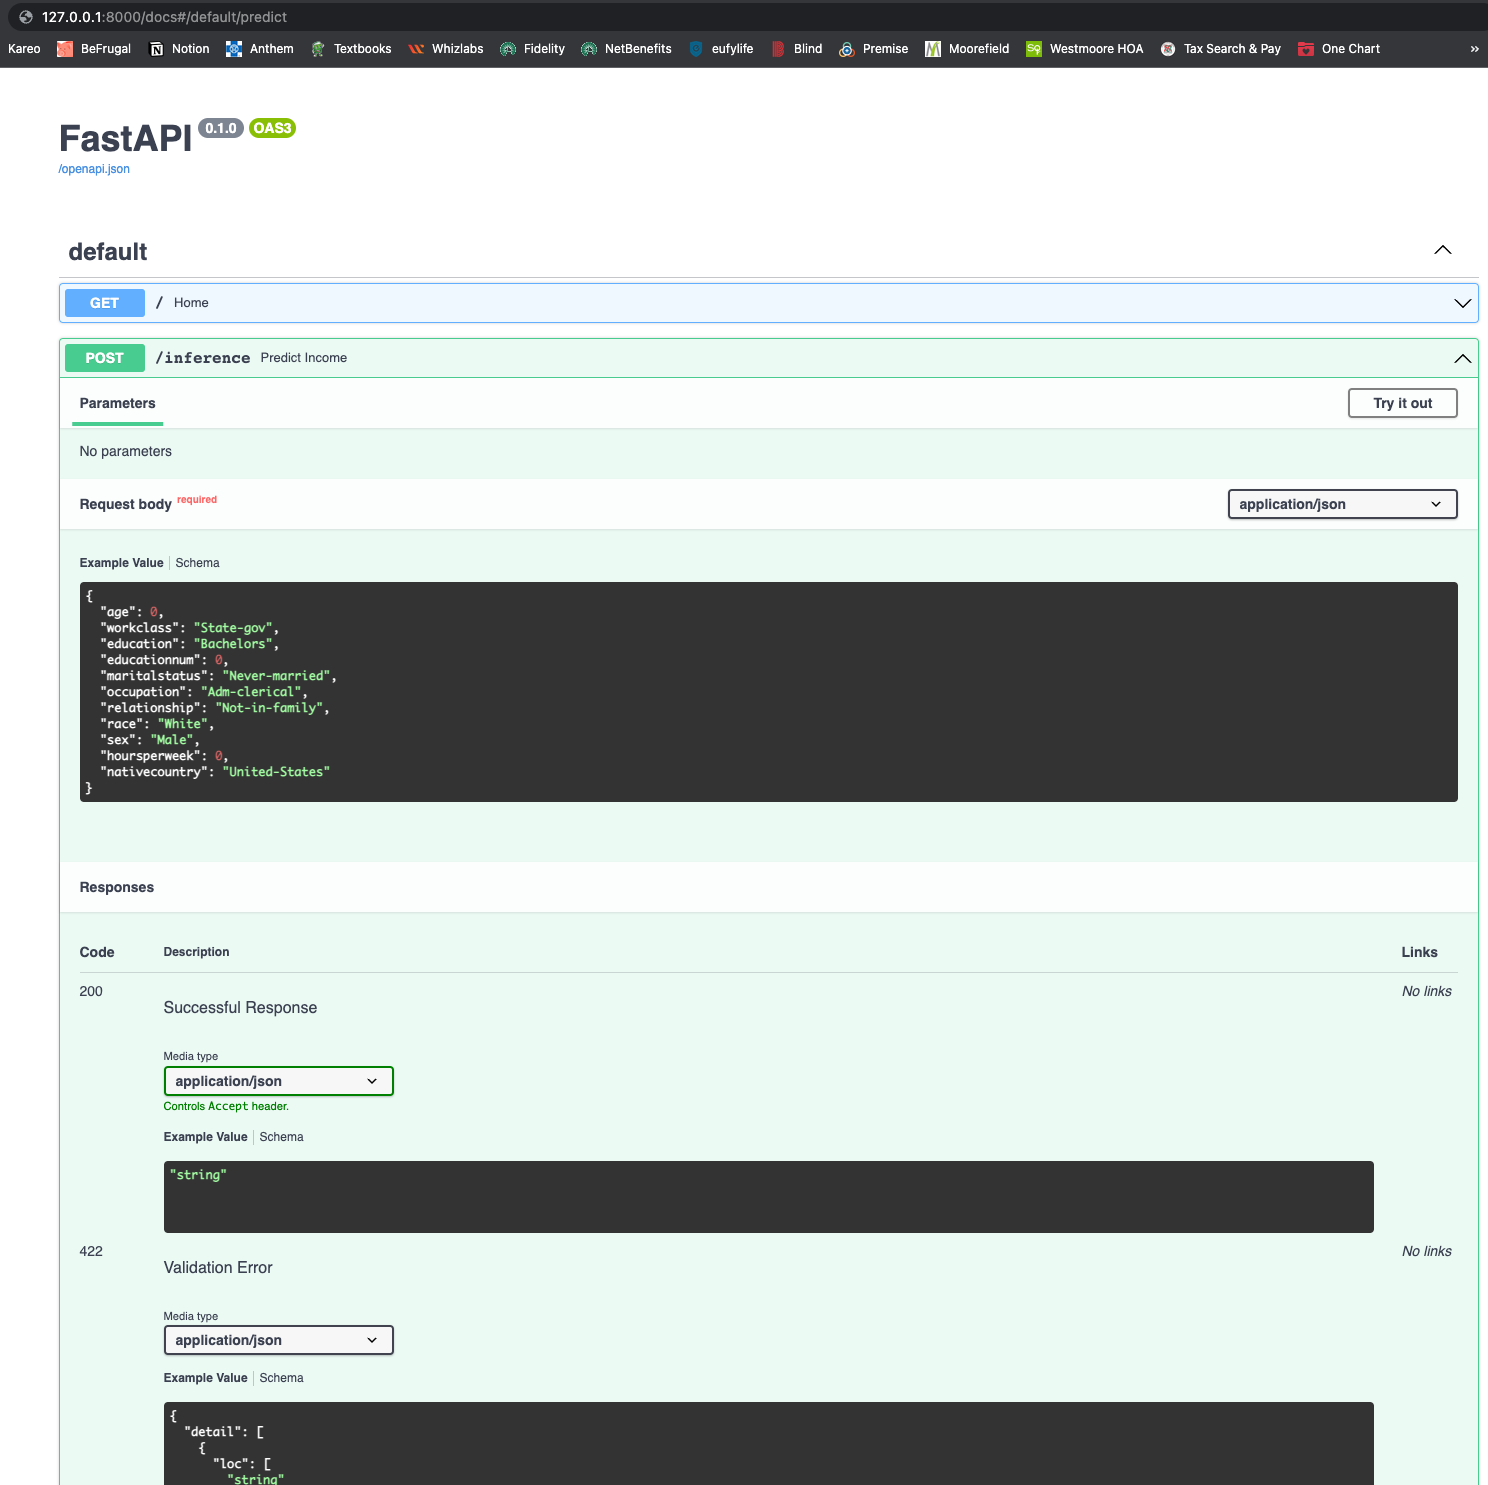
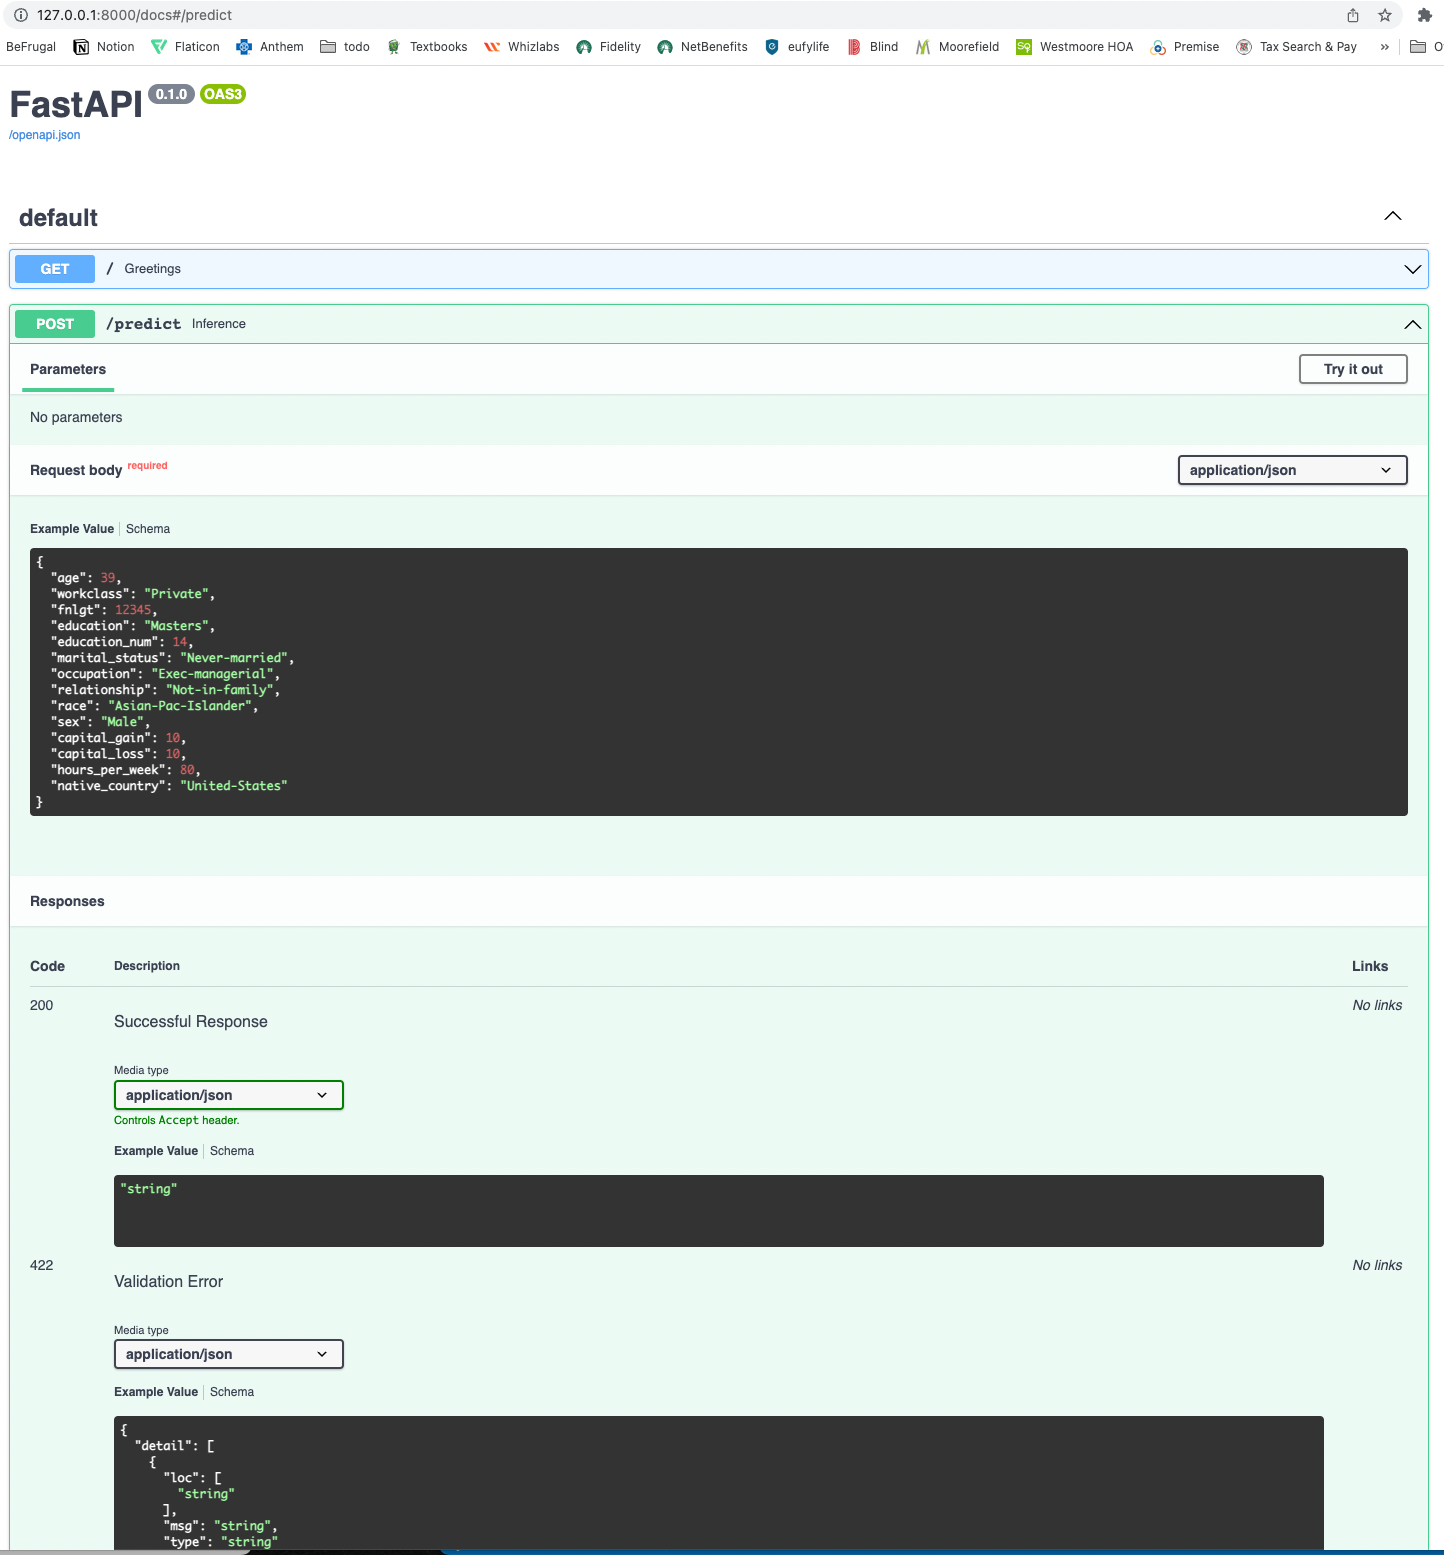
Update

Changed region(s): [[0.0, 0.0, 1.0, 1.0], [0.9349, 0.6195, 0.9972, 0.6815]]

diff --git a/test_api.py b/test_api.py
@@ -5,7 +5,7 @@ import pytest
 from http import HTTPStatus
 from fastapi.testclient import TestClient
 
-from app.api import app
+from main import app
 
 
 client = TestClient(app)
@@ -16,44 +16,36 @@ def test_greetings():
     Tests GET greetings function
     """
     response = client.get('/')
+    # print(response)
+    # print(response.status_code)
+    # print(response.json())
     assert response.status_code == HTTPStatus.OK
     assert response.request.method == "GET"
-    assert response.json() == 'Udacity MLOps Greetings!'
+    assert response.json() == {'message': 'Udacity MLOps Greetings!'}
 
-
-@pytest.mark.parametrize('test_input, expected', [
-    ('age', "Age of the person - numerical - int"),
-    ('fnlgt', 'MORE INFO NEEDED - numerical - int'),
-    ('race', 'Race of the person - nominal categorical - str')
-])
-def test_feature_info_status(test_input: str, expected: str):
-    """
-    Tests GET request and status code for feature_info function
-
-    Args:
-        test_input (str): example input
-        expected (str): example output
-    """
-    response = client.get(f'/feature_info/{test_input}')
-    assert response.status_code == HTTPStatus.OK
-    assert response.request.method == "GET"
-
-
-@pytest.mark.parametrize('test_input, expected', [
-    ('age', "Age of the person - numerical - int"),
-    ('fnlgt', 'MORE INFO NEEDED - numerical - int'),
-    ('race', 'Race of the person - nominal categorical - str')
-])
-def test_feature_info_response(test_input: str, expected: str):
-    """
-    Tests GET request response for feature_info function
-
-    Args:
-        test_input (str): example input
-        expected (str): example output
-    """
-    response = client.get(f'/feature_info/{test_input}')
-    assert response.json() == expected
+def test_predict_gr50k():
+    r = client.post("/predict", json={
+        "age": 39,
+        "workclass": "Private",
+        "fnlgt": 12345,
+        "education": "Masters",
+        "education_num": 14,
+        "marital_status": "Never-married",
+        "occupation": "Exec-managerial",
+        "relationship": "Not-in-family",
+        "race": "Asian-Pac-Islander",
+        "sex": "Male",
+        "capital_gain": 10,
+        "capital_loss": 10,
+        "hours_per_week": 80,
+        "native_country": "United-States"
+    })
+    # print(r)
+    # print(r.status_code)
+    # print(r.json())
+    # print(r.request.method)
+    assert r.status_code == 200
+    assert r.json() == {"prediction": ">50K"}
 
 
 def test_predict_status():
@@ -61,35 +53,28 @@ def test_predict_status():
     Tests POST predict function status
     """
     data = {
-        'age': 38,
-        'fnlgt': 15,
-        'education_num': 1,
-        'capital_gain': 0,
-        'capital_loss': 0,
-        'hours_per_week': 5
+        "age": 31,
+        "workclass": "Private",
+        "fnlgt": 12345,
+        "education": "Masters",
+        "education_num": 14,
+        "marital_status": "Never-married",
+        "occupation": "Exec-managerial",
+        "relationship": "Not-in-family",
+        "race": "Asian-Pac-Islander",
+        "sex": "Male",
+        "capital_gain": 10,
+        "capital_loss": 10,
+        "hours_per_week": 80,
+        "native_country": "United-States"
     }
-    response = client.post("/predict/", json=data)
+    response = client.post("/predict", json=data)
+    # print(r)
+    # print(r.status_code)
+    # print(r.request.method)
+    assert response.status_code == 200
     assert response.status_code == HTTPStatus.OK
     assert response.request.method == "POST"
-
-
-def test_predict_response():
-    """
-    Tests POST request response for predict function when successful against a sample
-    """
-    data = {
-        'age': 38,
-        'fnlgt': 15,
-        'education_num': 1,
-        'capital_gain': 0,
-        'capital_loss': 0,
-        'hours_per_week': 5
-    }
-    response = client.post("/predict/", json=data)
-    assert response.json()['label'] == 0 or response.json()['label'] == 1
-    assert response.json()['prob'] >= 0 and response.json()['label'] <= 1
-    assert response.json()['salary'] == '>50k' or response.json()[
-        'salary'] == '<=50k'
 
 
 def test_missing_feature_predict():
@@ -97,9 +82,25 @@ def test_missing_feature_predict():
     Tests POST predict function when failed due to missing features
     """
     data = {
-        "age": 0
+        "age": 0,
+        'fnlgt': 15,
+        'education_num': 1,
+        'capital_gain': 0,
+        'capital_loss': 0,
+        'hours_per_week': 5
     }
-    response = client.post("/predict/", json=data)
+    response = client.post("/predict", json=data)
+    # print(response)
+    # print(response.status_code)
+    # print(response.request.method)
+    # print(response.json())
+    # print(HTTPStatus.UNPROCESSABLE_ENTITY)
     assert response.status_code == HTTPStatus.UNPROCESSABLE_ENTITY
     assert response.request.method == "POST"
     assert response.json()["detail"][0]["type"] == "value_error.missing"
+
+if __name__ == "__main__":
+    test_greetings()
+    test_predict_gr50k()
+    test_predict_status()
+    test_missing_feature_predict()

diff --git a/main.py b/main.py
@@ -4,7 +4,8 @@ App main file
 # Put the code for your API here.
 import os
 import sys
-import yaml
+# import yaml
+import pandas as pd
 
 # Import Uvicorn & the necessary modules from FastAPI
 import uvicorn
@@ -15,6 +16,7 @@ from pydantic import BaseModel, Field
 from pandas import DataFrame
 import joblib
 import starter.ml.data
+import starter.ml.model
 # Import the PyCaret Regression module
 # import pycaret.regression as pycr
 
@@ -25,10 +27,10 @@ if "DYNO" in os.environ and os.path.isdir(".dvc"):
         sys.exit("dvc pull failed")
     os.system("rm -r .dvc .apt/usr/lib/dvc")
 
-with open('config.yml') as f:
-    config = yaml.load(f)
+# with open('config.yml') as f:
+#     config = yaml.load(f)
 
-output_model_path = os.path.join(config['models']['filepath'])
+# output_model_path = os.path.join(config['models']['filepath'])
 
 # Initialize the FastAPI application
 app = FastAPI()
@@ -95,16 +97,20 @@ async def greetings():
 
 # Create the POST endpoint with path '/predict'
 @app.post("/predict")
-async def inference(input_data: CleanData):
-    model = joblib.load("./models/trainedmodel.joblib")
+async def predict(input_data: CleanData):
+    model = joblib.load("./models/model.joblib")
     encoder = joblib.load("./models/encoder.joblib")
     lb = joblib.load("./models/lb.joblib")
 
-    input_df = DataFrame(data=input_data.values(), index=input_data.keys()).T
+    # input_df = DataFrame(data=input_data.values(), index=input_data.keys()).T
+
+    input_df = pd.DataFrame([input_data.dict()])
+    input_df.rename(lambda x: x.replace("_", "-"), axis="columns", inplace=True)
+
     X, _, _, _ = starter.ml.data.process_data(input_df,
                                               categorical_features=cat_features,
                                               encoder=encoder, lb=lb, training=False)
-    prediction = inference(model, X)
+    prediction = starter.ml.model.inference(model, X)
     y_pred = lb.inverse_transform(prediction)[0]
 
     return {"prediction": y_pred}

diff --git a/request_heroku.py b/request_heroku.py
@@ -1,0 +1,29 @@
+import requests
+
+
+data = {
+    "age": 39,
+    "workclass": "Private",
+    "fnlgt": 12345,
+    "education": "Masters",
+    "education_num": 14,
+    "marital_status": "Never-married",
+    "occupation": "Exec-managerial",
+    "relationship": "Not-in-family",
+    "race": "Asian-Pac-Islander",
+    "sex": "Male",
+    "capital_gain": 10,
+    "capital_loss": 10,
+    "hours_per_week": 80,
+    "native_country": "United-States"
+}
+
+# GET request
+response = requests.get('http://127.0.0.1:8000/')
+print(response.status_code)
+print(response.json())
+
+# POST request
+response = requests.post('http://127.0.0.1:8000/predict', auth=('user', 'pass'), json=data)
+print(response.status_code)
+print(response.json())

diff --git a/README.md b/README.md
@@ -81,7 +81,12 @@ git ci -m 'Add new data'
 
 Push to Heroku
 
-https://code2care.org/howto/fix-command-not-found-brew-bash-zsh-on-macos-terminal
+> https://code2care.org/howto/fix-command-not-found-brew-bash-zsh-on-macos-terminal
+
+Run locally
+```python
+uvicorn main:app --reload
+```
 
 
 ## Repositories
